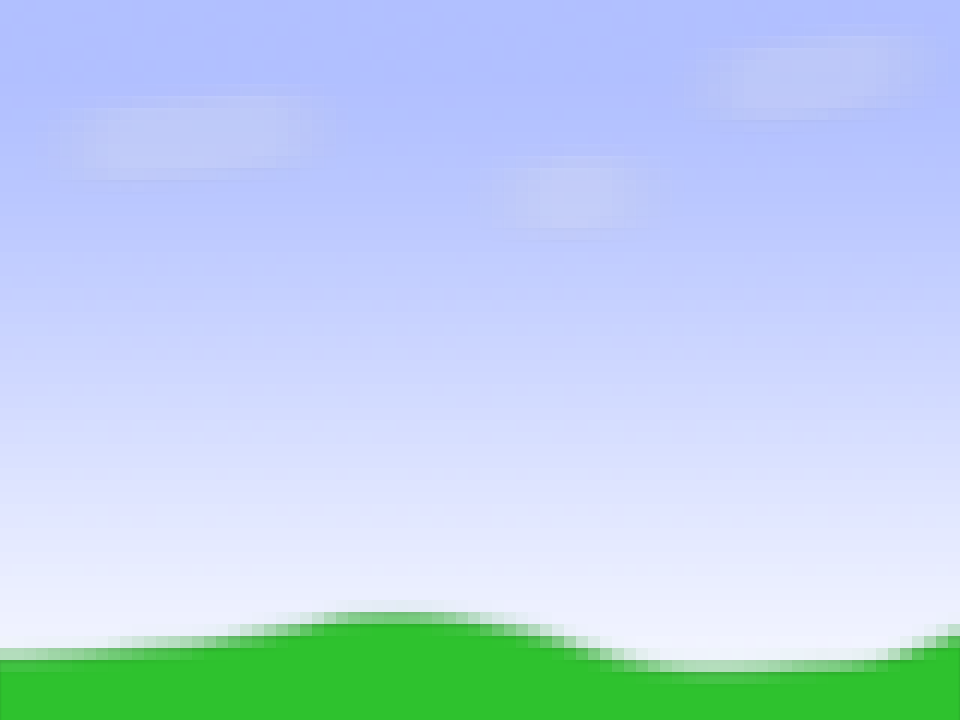
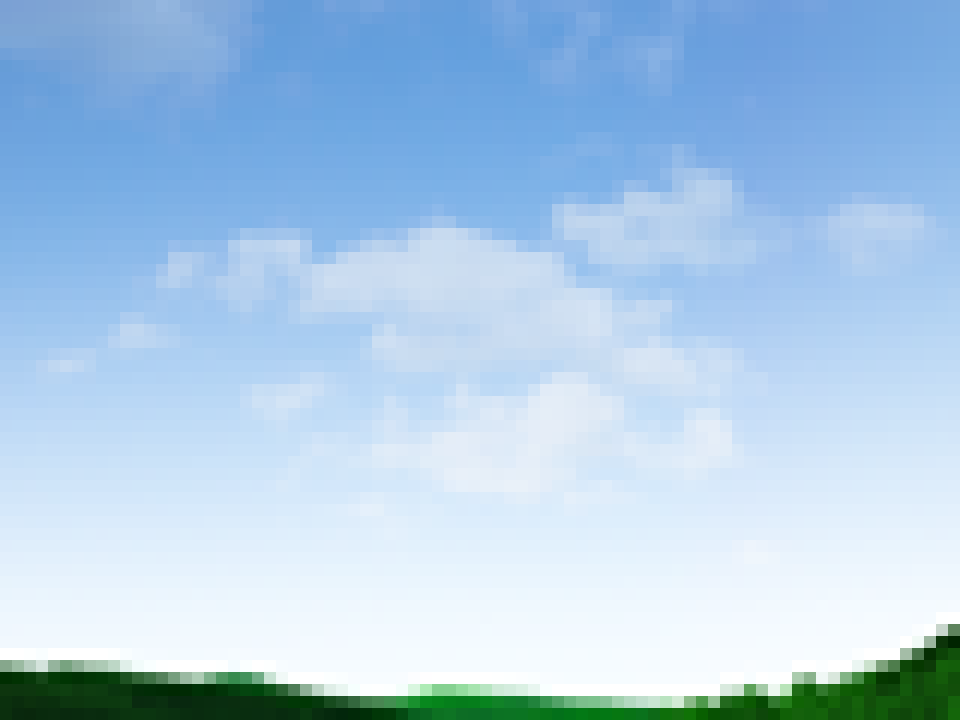
improved tower drawing and changed image resources

diff --git a/TowerNinja/src/net/codegames/towerninja/AbstractStone.java b/TowerNinja/src/net/codegames/towerninja/AbstractStone.java
@@ -11,8 +11,8 @@ abstract public class AbstractStone {
 	// Relative destination in the tower where the Stone is to be put.
 	private float iDestination, jDestination;
 	// Width and height of the stone
-	private float width = 70;
-	private float height = 40;
+	private float width = 72;
+	private float height = 48;
 	// variables for movement
 	private float yVelocity = 0.2f;
 	private float xVelocity = 0.1f;
@@ -44,16 +44,17 @@ abstract public class AbstractStone {
 	protected void setDestination(float iDestination, float jDestination) {
 		this.iDestination = iDestination;
 		this.jDestination = jDestination;
-		this.mPath = new Parabole(10, Main.height, 10 + (exactXDestination() - 10) / 2,
-				50, exactXDestination(), exactYDestination());
+		this.mPath = new Parabole(10, Main.height,
+				10 + (exactXDestination() - 10) / 2, 50, exactXDestination(),
+				exactYDestination());
 	}
 
 	protected void updatePathWithLastPosition(float iDestination,
 			float jDestination) {
 		this.iDestination = iDestination;
 		this.jDestination = jDestination;
-		this.mPath = new Parabole(10, Main.height, getxLocation(), getyLocation(),
-				exactXDestination(), exactYDestination());
+		this.mPath = new Parabole(10, Main.height, getxLocation(),
+				getyLocation(), exactXDestination(), exactYDestination());
 	}
 
 	protected float getjDestination() {
@@ -93,11 +94,13 @@ abstract public class AbstractStone {
 	}
 
 	protected float exactXDestination() {
-		return 200 + (getjDestination() * getWidth());
+		return (Main.width / 2) + 6 - (2.5f * (getWidth() + 12))
+				+ (getjDestination() * (getWidth() + 12));
 	}
 
 	protected float exactYDestination() {
-		return 600 - (getiDestination() * getHeight());
+		return Main.height - ((getiDestination() + 1) * (getHeight() + 12))
+				+ 12;
 	}
 
 	protected Parabole getPath() {
@@ -125,6 +128,20 @@ abstract public class AbstractStone {
 		return isOnTower;
 	}
 
+	/**
+	 * Checks if a line with given start and end point intersects with the
+	 * rectangle represented by the stone.
+	 * 
+	 * @param x1
+	 *            x-coordinate of starting point
+	 * @param y1
+	 *            y-coordinate of starting point
+	 * @param x2
+	 *            x-coordinate of ending point
+	 * @param y2
+	 *            y-coordinate of ending point
+	 * @return true if line intersects with stone
+	 */
 	public boolean contains(float x1, float y1, float x2, float y2) {
 		Rectangle2D rect = new Rectangle.Float(getxLocation(), getyLocation(),
 				getWidth(), getHeight());

diff --git a/TowerNinja/src/net/codegames/towerninja/Game.java b/TowerNinja/src/net/codegames/towerninja/Game.java
@@ -4,9 +4,6 @@ import java.util.Vector;
 
 import processing.core.PApplet;
 
-// kennt alle steine
-// kennt Turm
-
 /**
  * @author chameleon
  * 
@@ -24,7 +21,7 @@ public class Game {
 	public Score score;
 
 	private static final int TOWER_HEIGHT = 8;
-	private static final int TOWER_WIDTH = 6;
+	private static final int TOWER_WIDTH = 5;
 	/**
 	 * A tower represented by a 2-dimensional data strucure. the first dimension
 	 * describes the towers width. The second its height. When a new stone is
@@ -149,7 +146,7 @@ public class Game {
 			for (int j = 0; j < tower.get(i).length; j++) {
 				if (tower.get(i)[j] == null) {
 					double rand = Math.random();
-					if (rand < 0.67d) {
+					if (rand < 0.65d) {
 						tower.get(i)[j] = new Brick(50, 5, i, j);
 					} else {
 						tower.get(i)[j] = new Bomb(50, 5, i, j);

diff --git a/TowerNinja/src/net/codegames/towerninja/Main.java b/TowerNinja/src/net/codegames/towerninja/Main.java
@@ -63,7 +63,7 @@ public class Main extends PApplet {
 	 * @see processing.core.PApplet#draw()
 	 */
 	public void draw() {
-		background(bg);
+		image(bg, 0, height - bg.height);
 		game.update(tracking.getPlayers());
 		displayScore();
 		if (DEV_MODE) {
